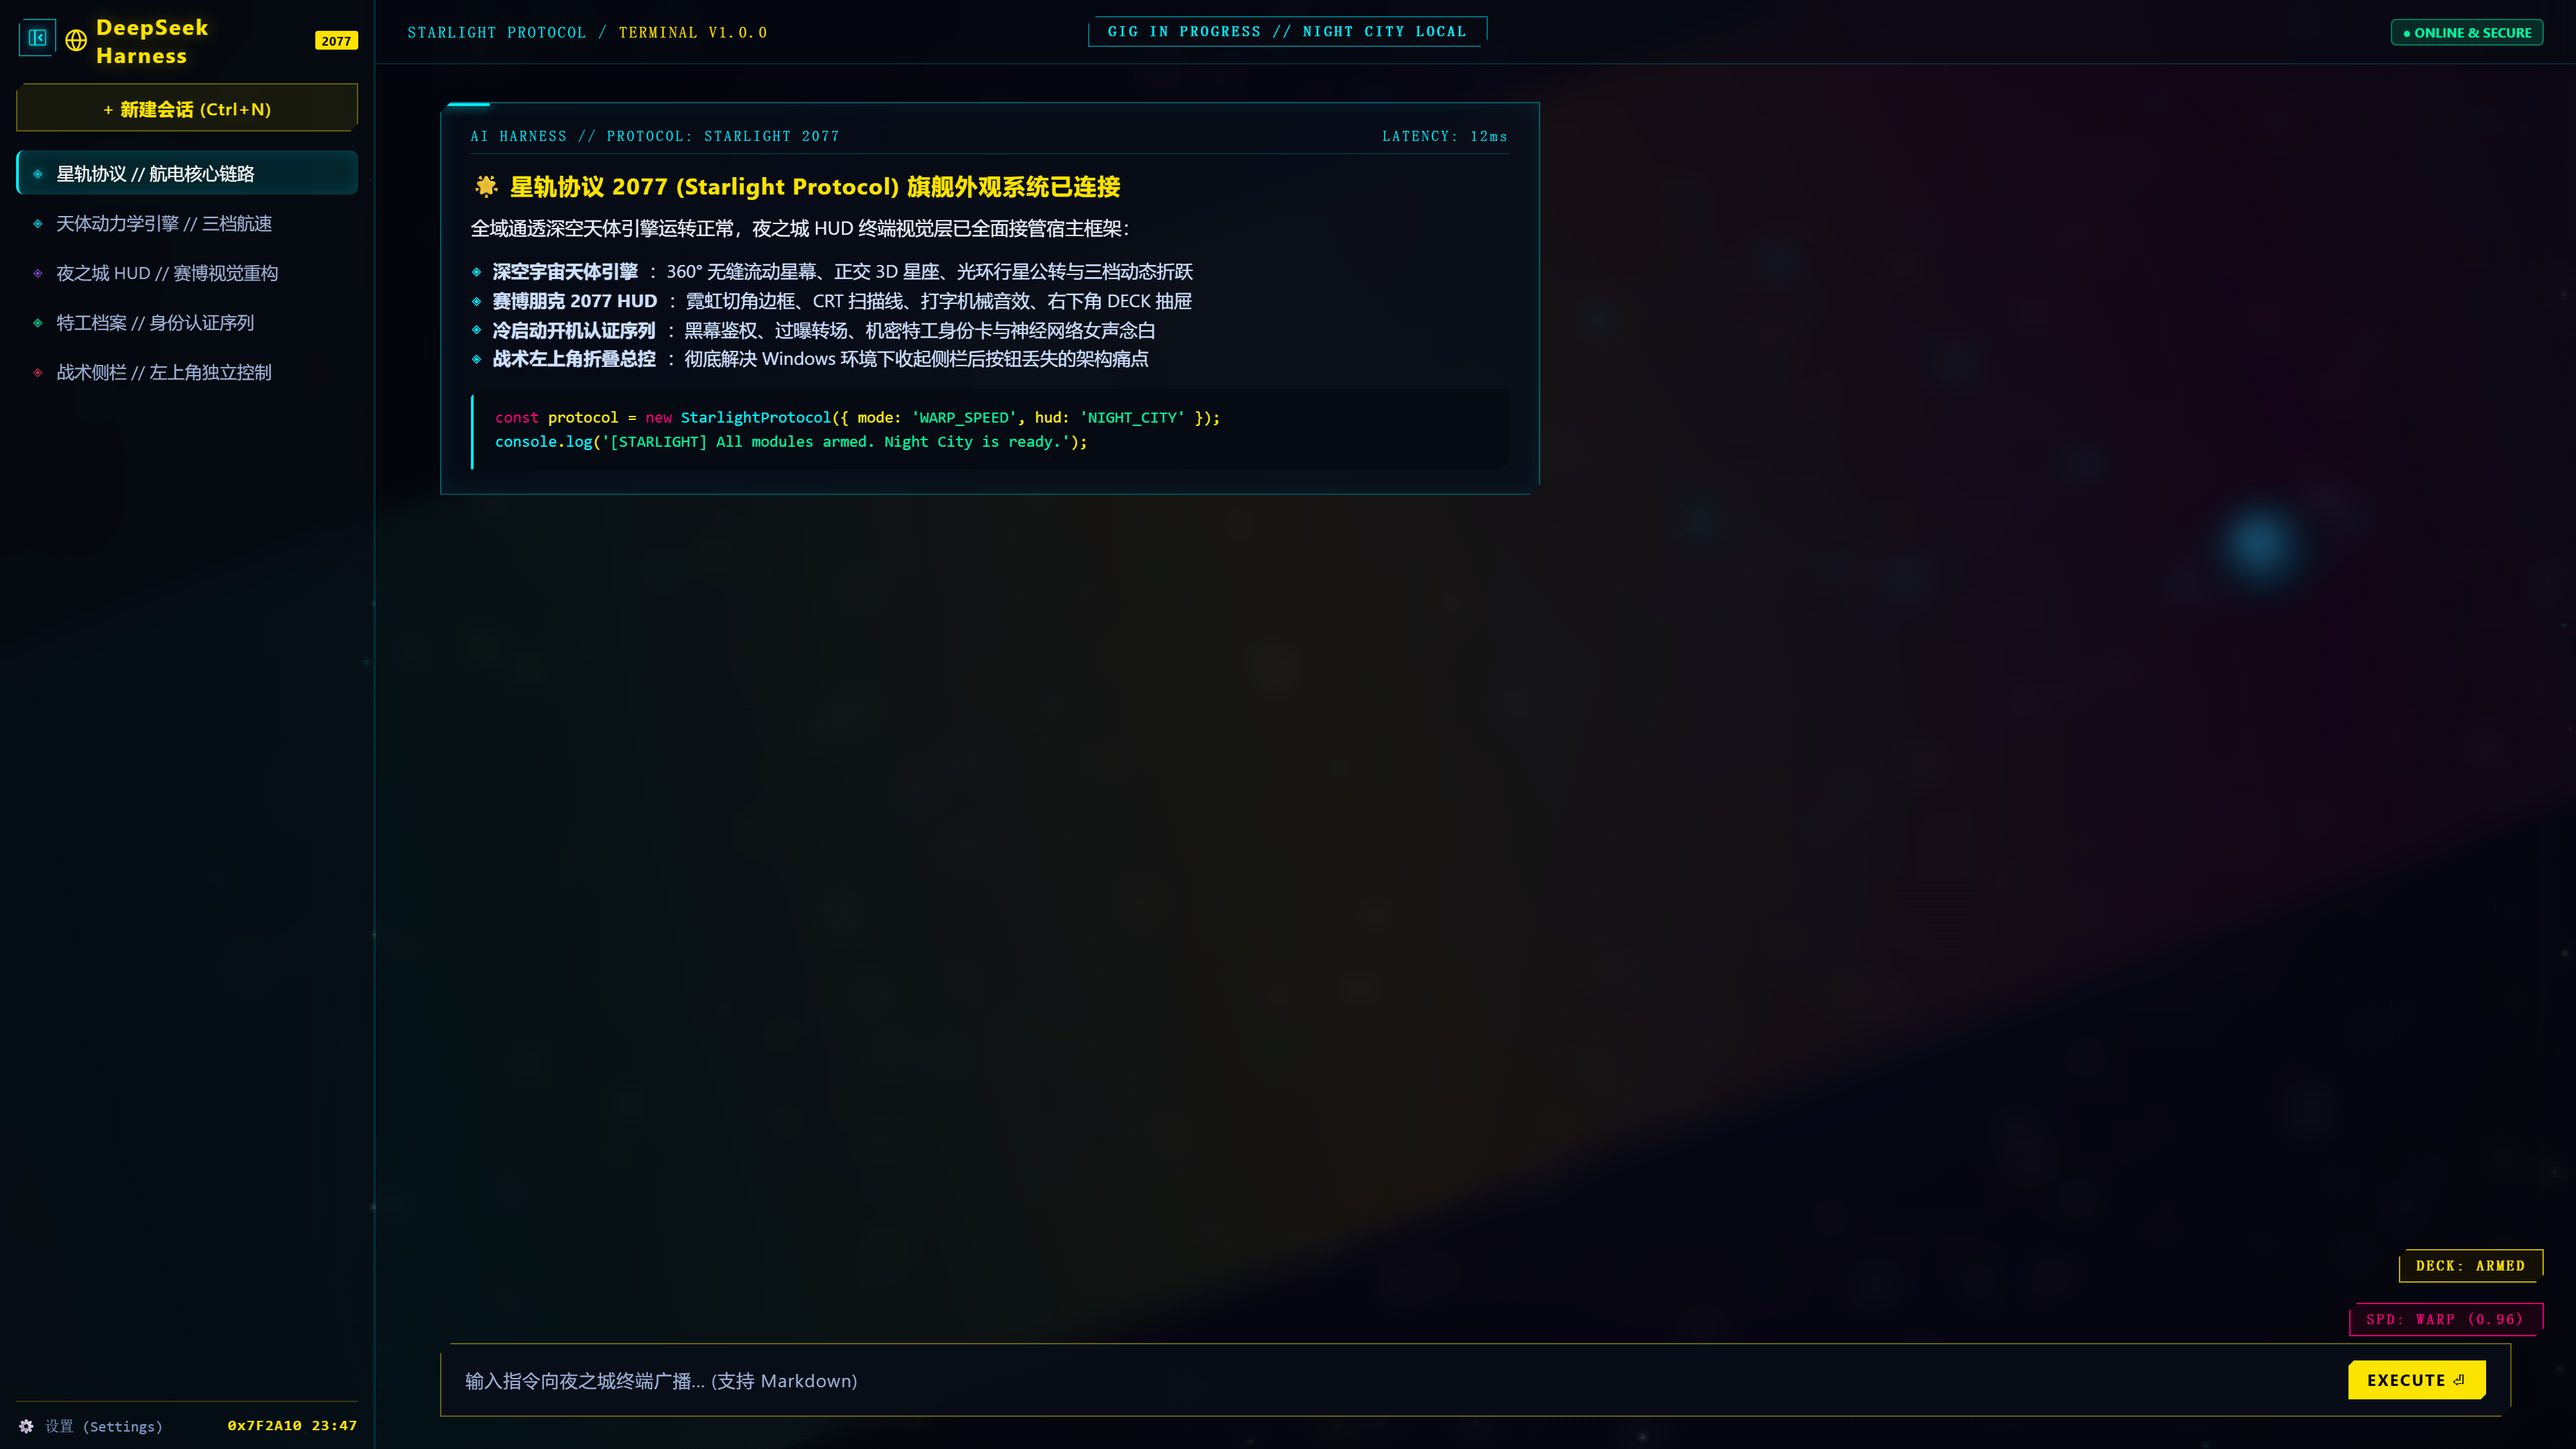
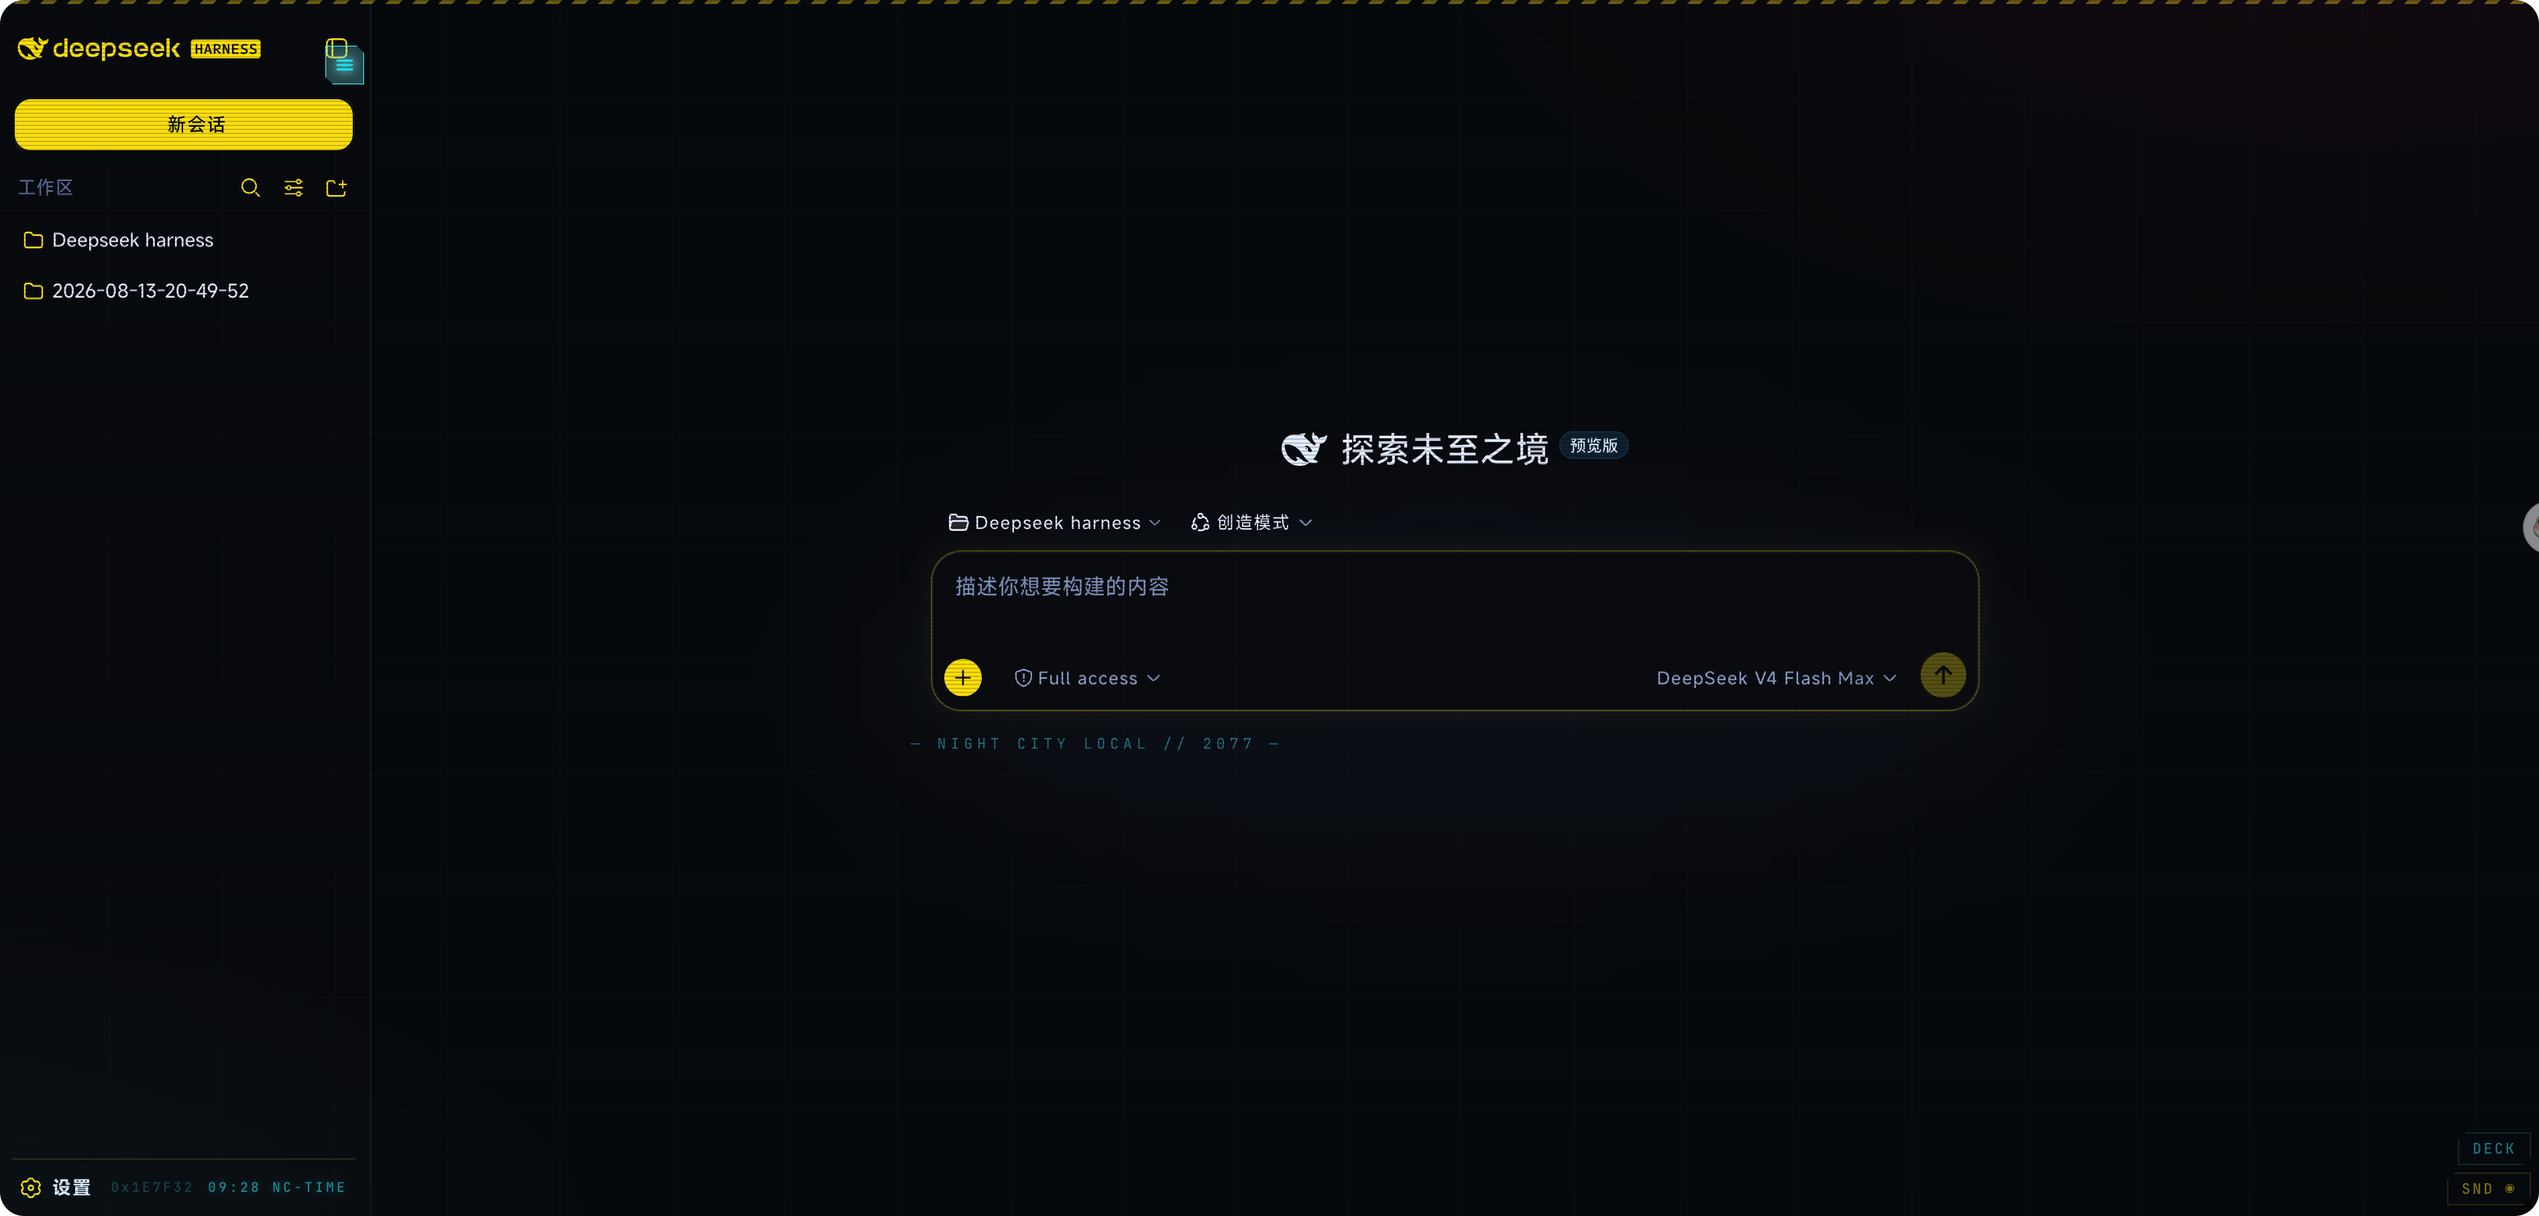
docs: update real application and startup screenshots (privacy-safe)

diff --git a/README.md b/README.md
@@ -10,14 +10,22 @@
 <p align="center">
   <strong>「WAKE UP, SAMURAI. 欢迎接入星轨协议 2077。」</strong><br>
   为 DeepSeek Harness 量身打造的旗舰级综合外观系统<br>
-  深空天体引擎 × 赛博朋克 HUD × 开机鉴权序列 × 战术侧栏总控 · 三合一自主矩阵
+  深空天体引擎 × 赛博朋克 HUD × 开机鉴权序列 × 战术侧栏总控 · 四合一自主矩阵
 </p>
 
 </div>
 
 ---
 
-![Starlight Protocol 2077 Hero Banner](assets/starlight-hero.png)
+## 🖥 实际应用主界面效果 (Application Interface)
+
+> **实机渲染效果**：深空正交星座与流动天体星幕穿透窗口底层，赛博朋克 2077 夜之城 HUD 霓虹青战术切角轮廓包覆工作区，左上角无缝集成战术侧栏折叠按钮，右下角常驻航速读数与芯片控制器。
+
+<div align="center">
+  <img src="assets/starlight-hero.png" alt="DeepSeek Harness 实际应用界面效果" width="95%" />
+</div>
+
+---
 
 ## 🌟 核心特性全景
 
@@ -32,7 +40,22 @@
 
 ---
 
-### 2. ⚡ 赛博朋克 2077 战术 HUD 终端 (Cyberpunk 2077 HUD Theme)
+### 2. 🚀 开机冷启动认证序列 (Startup Sequence)
+
+> **实际开机效果**：冷启动时触发黑幕认证序列、过曝白光与 CRT 荧光屏平滑展开。特工档案卡片、官方鲸鱼瞄准准星扫描、动态进度条与实机交互授权按键。
+
+<div align="center">
+  <img src="assets/starlight-startup.png" alt="DeepSeek Harness 实际开机页面鉴权效果" width="90%" />
+</div>
+
+- **黑幕鉴权过场**：深空冷启动时触发黑幕认证序列，平滑过渡至特工档案底板。
+- **机密特工档案卡**：黑客特工身份档案（代号、权限等级与数字流），支持自定义身份。
+- **动态雷达与授权交互**：环形准星扫描瞄准、全宽动态进度条、支持键盘/鼠标点击「授予访问权限」快速接入。
+- **神经网络真声念白**：内置高质量语音念白与 Web Speech 语音回退保障。
+
+---
+
+### 3. ⚡ 赛博朋克 2077 战术 HUD 终端 (Cyberpunk 2077 HUD Theme)
 - **夜之城色调矩阵**：霓虹青（`#00f0ff`）× 战术金黄（`#fce300`）× 深空玄黑底层，高对比度视觉重构。
 - **战术切角与 HUD 框架**：全组件战术切角轮廓（`clip-path`）、CRT 细腻扫描线、细节角标包角。
 - **声效与交互反馈**：纯代码 Web Audio API 合成机械打字音效（零外部音频依赖），右下角 `SND` 音效开关与 `DECK` 控制抽屉。
@@ -40,28 +63,19 @@
 
 ---
 
-### 3. 🚀 开机冷启动认证序列 (Startup Sequence)
-- **黑幕鉴权过场**：冷启动时触发黑幕认证序列、过曝白光与 CRT 荧光屏平滑展开。
-- **机密特工档案卡**：黑客特工身份档案（代号、权限等级与数字流），支持自定义身份。
-- **神经网络真声念白**：内置高质量语音念白与 Web Speech 语音回退保障。
+### 4. 🎛 战术侧栏隐藏总控与控件矩阵 (Tactical Controls)
+
+> **细节特写**：左上角无边框定制环境下新修复的战术侧栏折叠按钮、右下角 SPD 天体航速控制器与特工鉴权序列。
 
 <div align="center">
-  <img src="assets/starlight-startup.png" alt="Classified Agent Dossier" width="85%" />
+  <img src="assets/starlight-controls.png" alt="战术侧边栏折叠按钮与核心控制面板" width="90%" />
 </div>
 
----
-
-### 4. 🎛 战术左上角侧边栏隐藏/展开总控 (Tactical Sidebar Toggle)
-- **解决 Windows 原生折叠痛点**：彻底修复 Windows 无边框定制环境下侧栏收起后按钮丢失的架构问题。
-- **恒定高优先级切角微光按钮**：固定在左上角（`top: 6px; left: 10px; z-index: 10050`），不受窗口拖拽区域拦截。
+- **彻底修复侧栏折叠按钮丢失问题**：在 Windows 无边框定制环境下解决原生折叠按钮丢失缺陷，高优先级切角微光按钮固定于左上角（`z-index: 10050`），不受拖拽区域拦截。
 - **双态智能矢量图标**：
   - **展开态 (显示侧栏)**：显示向内折叠箭头 `◀` 与实线面板框，悬停提示 `收起侧边栏 (Ctrl+B)`。
   - **折叠态 (隐藏侧栏)**：显示向外展开箭头 `▶` 与虚线导轨框，悬停提示 `展开侧边栏 (Ctrl+B)`。
-- **多级稳态调度**：直接驱动 DSH 官方 `layout.toggleSidebar()`，自动避让品牌 Logo。
-
-<div align="center">
-  <img src="assets/starlight-controls.png" alt="Tactical Controls & Settings" width="85%" />
-</div>
+- **多级稳态调度**：直接驱动 DSH 官方 `layout.toggleSidebar()`，自动避让品牌 Logo，零崩溃风险。
 
 ---
 
@@ -95,8 +109,9 @@ dsh plugin --profile desktop add dsh-plugin-starlight-protocol
 
 ---
 
-## 🛡 性能与无障碍保障
+## 🛡 性能与隐私安全保障
 
+- **零隐私外泄**：所有组件均在本地沙箱运行，不搜集、不上传任何个人文件、工作区路径或聊天内容。
 - **小屏自适应**：在移动端或窄屏环境（≤768px）下自动关闭高耗能扫描线与背景流线。
 - **减弱动态效果支持**：遵循系统 `prefers-reduced-motion` 设置，开启时平稳收敛高帧率过渡。
 - **一键静音与特效开关**：界面右下角常驻 `SND` 静音按键与 `DECK` 控制器，所有特效可独立一键关闭。
@@ -107,10 +122,10 @@ dsh plugin --profile desktop add dsh-plugin-starlight-protocol
 
 ```
 dsh-plugin-starlight-protocol/
-├── assets/               # README 高清演示截图
-│   ├── starlight-hero.png
-│   ├── starlight-startup.png
-│   └── starlight-controls.png
+├── assets/               # README 实机高清演示截图
+│   ├── starlight-hero.png       # 实际应用主界面效果截图
+│   ├── starlight-startup.png    # 实际冷启动特工鉴权开机截图
+│   └── starlight-controls.png   # 战术折叠按钮与核心控制展示
 ├── cordis.patch.yml      # DSH 核心服务注册编排文件
 ├── package.json          # 插件元数据与入口声明
 ├── README.md             # 工程主文档
